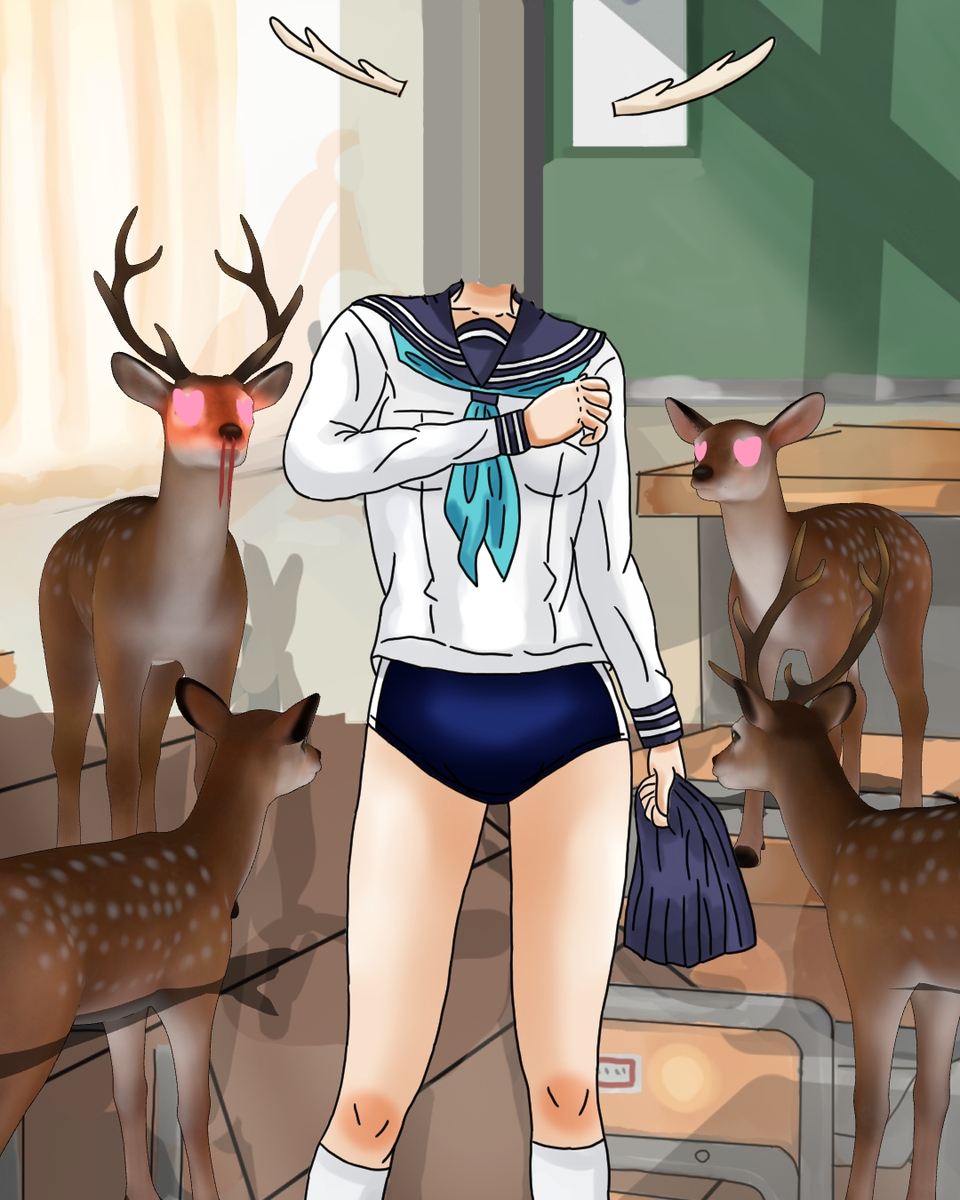
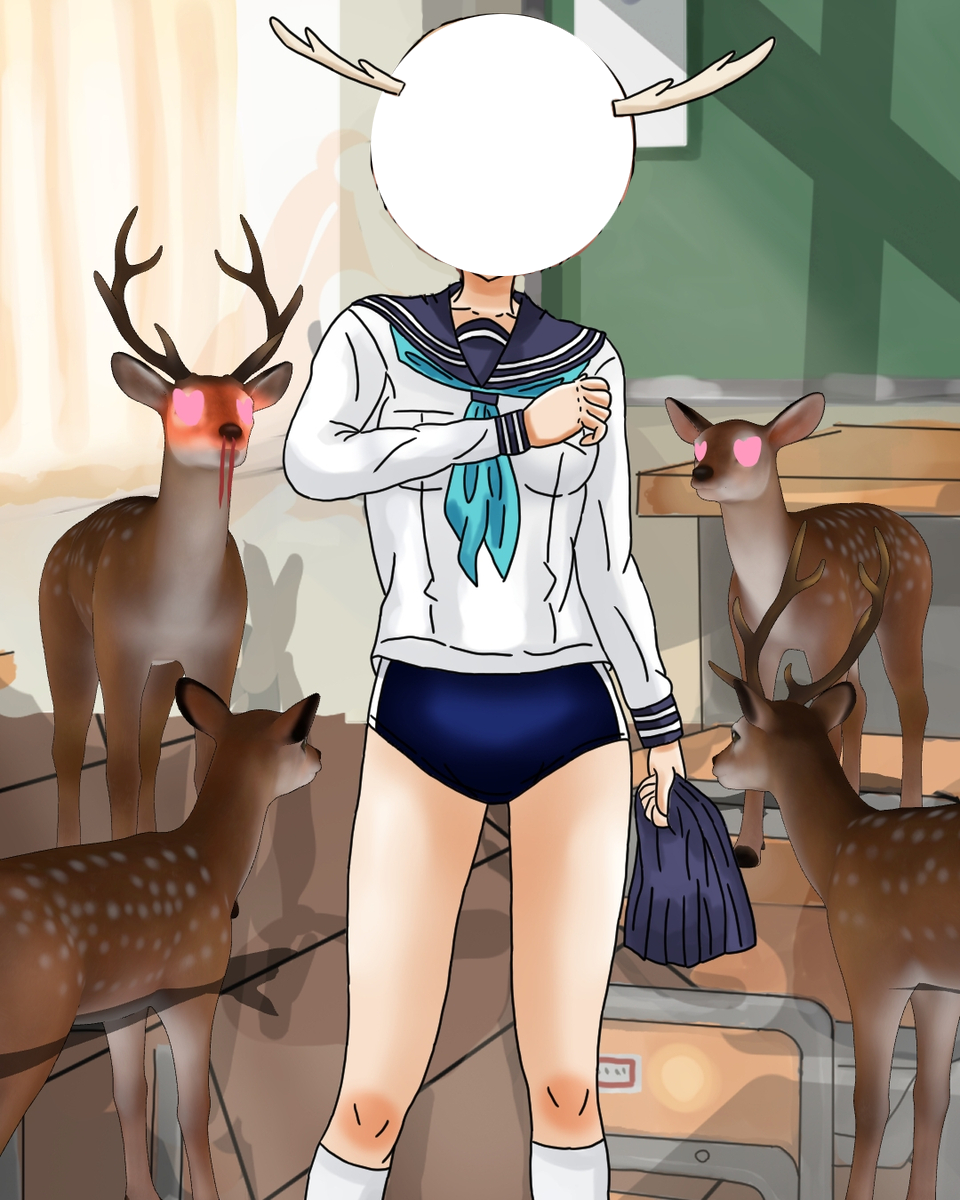
重新制作 "鹿","🦌","鹿乃子乃子","鹿乃子"

Changed region(s): [[0.375, 0.0, 0.6875, 0.2775]]

diff --git a/emoji/deer/__init__.py b/emoji/deer/__init__.py
@@ -10,45 +10,26 @@ from meme_generator.utils import make_jpg_or_gif
 img_dir = Path(__file__).parent / "images"
 
 
-def deer_se(images: list[BuildImage], texts: list[str], args: MemeArgsModel):
+def deer(images: list[BuildImage], texts: list[str], args: MemeArgsModel):
     frame = BuildImage.open(img_dir / "0.png")
 
-    ta = "她{name}"
-    name = ta
-    if texts:
-        name = texts[0]
-    elif args.user_infos:
-        info = args.user_infos[0]
-        ta = "他" if info.gender == "male" else "她"
-        name = info.name or ta
-
-    text = f""
-    try:
-        frame.draw_text(
-            (50, 20, 700, 130),
-            text,
-            max_fontsize=70,
-            min_fontsize=20,
-            valign="bottom",
-        )
-    except ValueError:
-        raise TextOverLength(name)
-
     def make(imgs: list[BuildImage]) -> BuildImage:
-        img = imgs[0].convert("RGBA").circle().resize((275, 275))
-        return frame.copy().paste(img, (360, 40), alpha=True)
+        #头像尺寸
+        img = imgs[0].convert("RGBA").circle().resize((290, 290))
+        #头像坐标
+        return frame.copy().paste(img, (360, 3), alpha=True,below=True)
 
     return make_jpg_or_gif(images, make)
 
 
 add_meme(
-    "deer_se",
-    deer_se,
+    "deer",
+    deer,
     min_images=1,
     max_images=1,
     min_texts=0,
     max_texts=1,
-    keywords=["🦌","鹿"],
+    keywords=["鹿","🦌","鹿乃子乃子","鹿乃子"],
     date_created=datetime(2024, 7, 26),
     date_modified=datetime(2024, 7, 26),
 )
